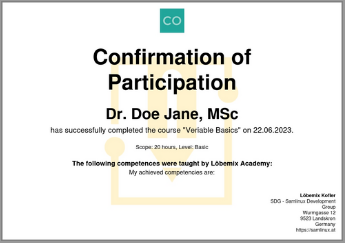
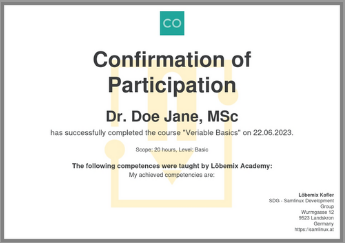
A22973

Changed region(s): [[0.1449, 0.2016, 0.8696, 0.749], [0.0, 0.0, 1.0, 1.0], [0.3188, 0.8066, 0.6667, 0.8642]]

diff --git a/templates/de_k_4.html b/templates/de_k_4.html
@@ -11,10 +11,11 @@
     }
 
     .template {
-      height: 783px;
-      width: 1113px;
+      height: 773px;
+      width: 1103px;
       position: relative;
-      border: 5px solid gray;
+      border: 10px solid gray;
+      color: #3c3e3f;
     }
 
     .content {

diff --git a/templates/en_k_4.html b/templates/en_k_4.html
@@ -11,10 +11,11 @@
     }
 
     .template {
-      height: 783px;
-      width: 1113px;
+      height: 773px;
+      width: 1103px;
       position: relative;
-      border: 5px solid gray;
+      border: 10px solid gray;
+      color: #3c3e3f;
     }
 
     .content {

diff --git a/templates/de_z_4.html b/templates/de_z_4.html
@@ -11,10 +11,11 @@
     }
 
     .template {
-      height: 783px;
-      width: 1113px;
+      height: 773px;
+      width: 1103px;
       position: relative;
-      border: 5px solid gray;
+      border: 10px solid gray;
+      color: #3c3e3f;
     }
 
     .qrCode {

diff --git a/templates/en_z_4.html b/templates/en_z_4.html
@@ -11,10 +11,11 @@
     }
 
     .template {
-      height: 783px;
-      width: 1113px;
+      height: 773px;
+      width: 1103px;
       position: relative;
-      border: 5px solid gray;
+      border: 10px solid gray;
+      color: #3c3e3f;
     }
 
     .qrCode {
